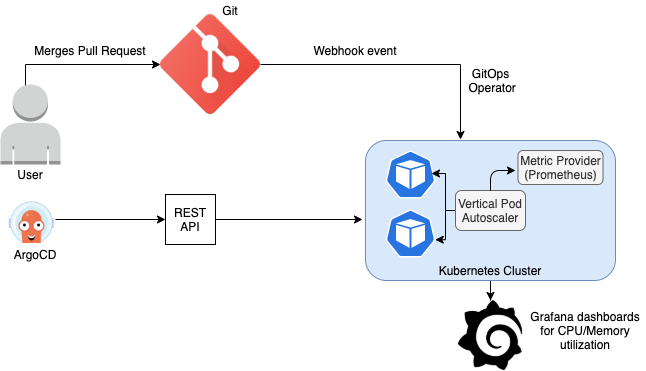
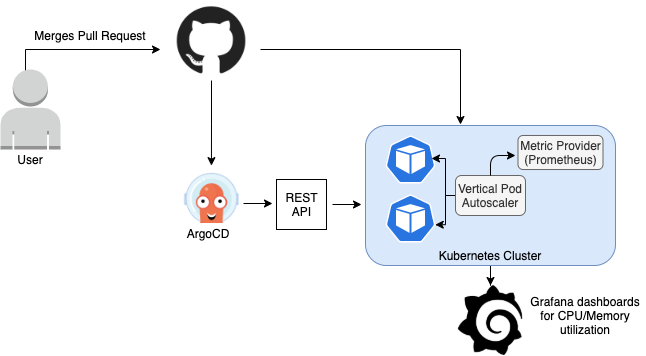
-pod decapitalized. -mentioned about multiple clusters within end-users part. -GotOpsFlow.png is updated. -Continuous Delivery is switched with the Continues Deployment. -"it" replaced with VPA. -trailing `‘ ` is removed.

diff --git a/README.md b/README.md
@@ -16,11 +16,12 @@ Our end-users are:
 
 1. DevOps engineers - monitoring and managing resource utilization. 
 2. Developers - deploying kubernetes/OpenShift applications or clusters.
-3. Cluster administrators - managing the whole cluster itself.
+3. Cluster administrators - managing the whole cluster that is placed across the board with the
+   other clusters.
 
 The purpose here is to have better CPU and memory utilization. DevOps developers and operators are touching clusters and they need to make sure to manage their resources efficiently.
 
-VPA scales POD utilization by sending CPU and memory requests based on utilization. With the help of the monitorization of resources, users can also track to see how VPA contributed to effectiveness.
+VPA scales pod utilization by sending CPU and memory requests based on utilization. With the help of the monitorization of resources, users can also track to see how VPA contributed to effectiveness.
 
 
 ## Scope and Features of the project
@@ -43,7 +44,7 @@ The scope of the project includes configuring Vertical Pod Autoscaler(VPA) throu
 ## Solution Concept
 
 ### 1. GitOps Workflow
-GitOps approach to Continuous Delivery on Kubernetes is to continuously monitor the cluster's actual state and if it deviates from the desired state, it takes action to correct it. This uses Git repositories as a single source of truth to deliver infrastructure as code. 
+GitOps approach to Continuous Deployment on Kubernetes is to continuously monitor the cluster's actual state and if it deviates from the desired state, it takes action to correct it. This uses Git repositories as a single source of truth to deliver infrastructure as code. 
 
 In this project, we are enabling the configuration of VPA through GitOps. The following diagram roughly explains how our workflow will be utilizing GitOps:
 
@@ -51,10 +52,10 @@ In this project, we are enabling the configuration of VPA through GitOps. The fo
 
 ### 2. Vertical Pod Autoscaler (VPA)
 
-It ensures that a container’s resources are not under or over-utilized. It recommends optimized CPU and memory requests/limits values, and can also automatically update them so that the cluster resources are efficiently used.
+VPA ensures that a container’s resources are not under or over-utilized; recommends optimized CPU and memory requests/limits values, and can also automatically update them so that the cluster resources are efficiently used.
 
 Below are the building blocks of VPA:
-- **VPA Recommender**: This component reads the pod metrics from Prometheus and suggests resource recommendations to the VPA operator. ‘
+- **VPA Recommender**: This component reads the pod metrics from Prometheus and suggests resource recommendations to the VPA operator.
 - **VPA Admission Controller**: Applies values suggested by the VPA Recommender. 
 - **VPA Updater**: Evict and restart the pod, if it is not running in the recommended settings. 
 
